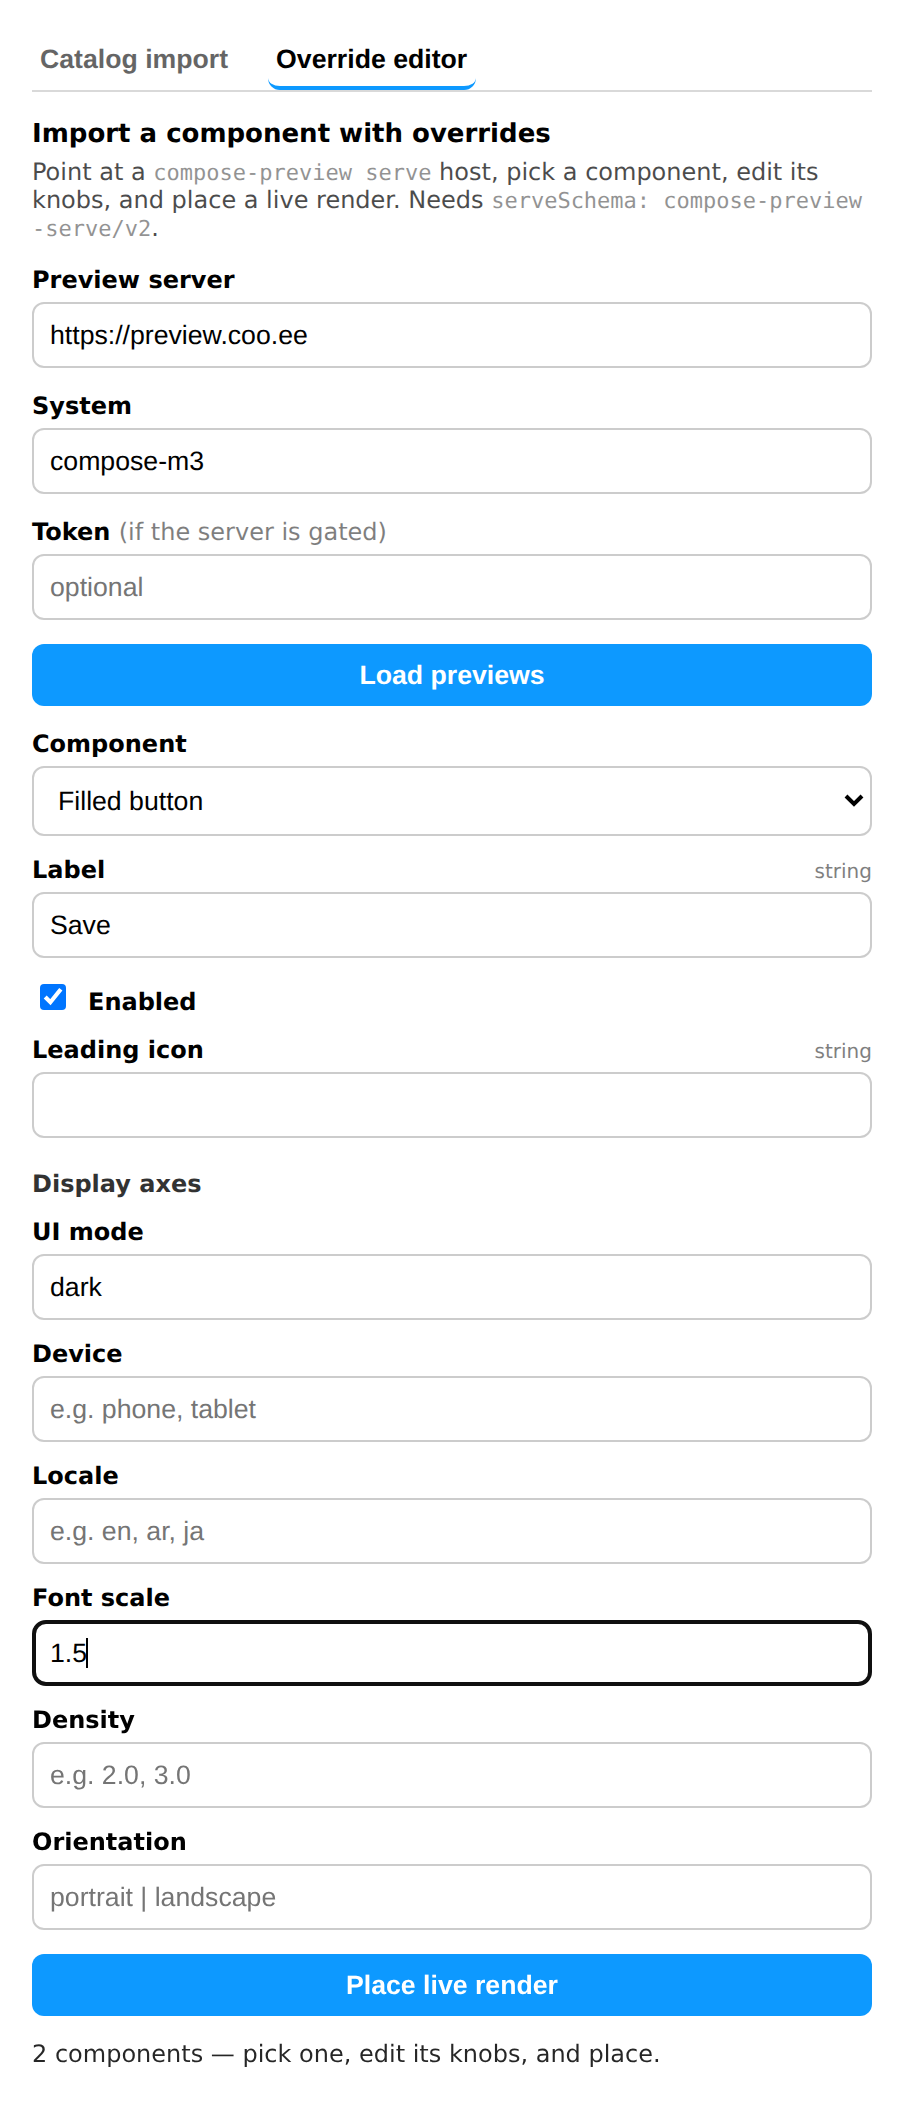
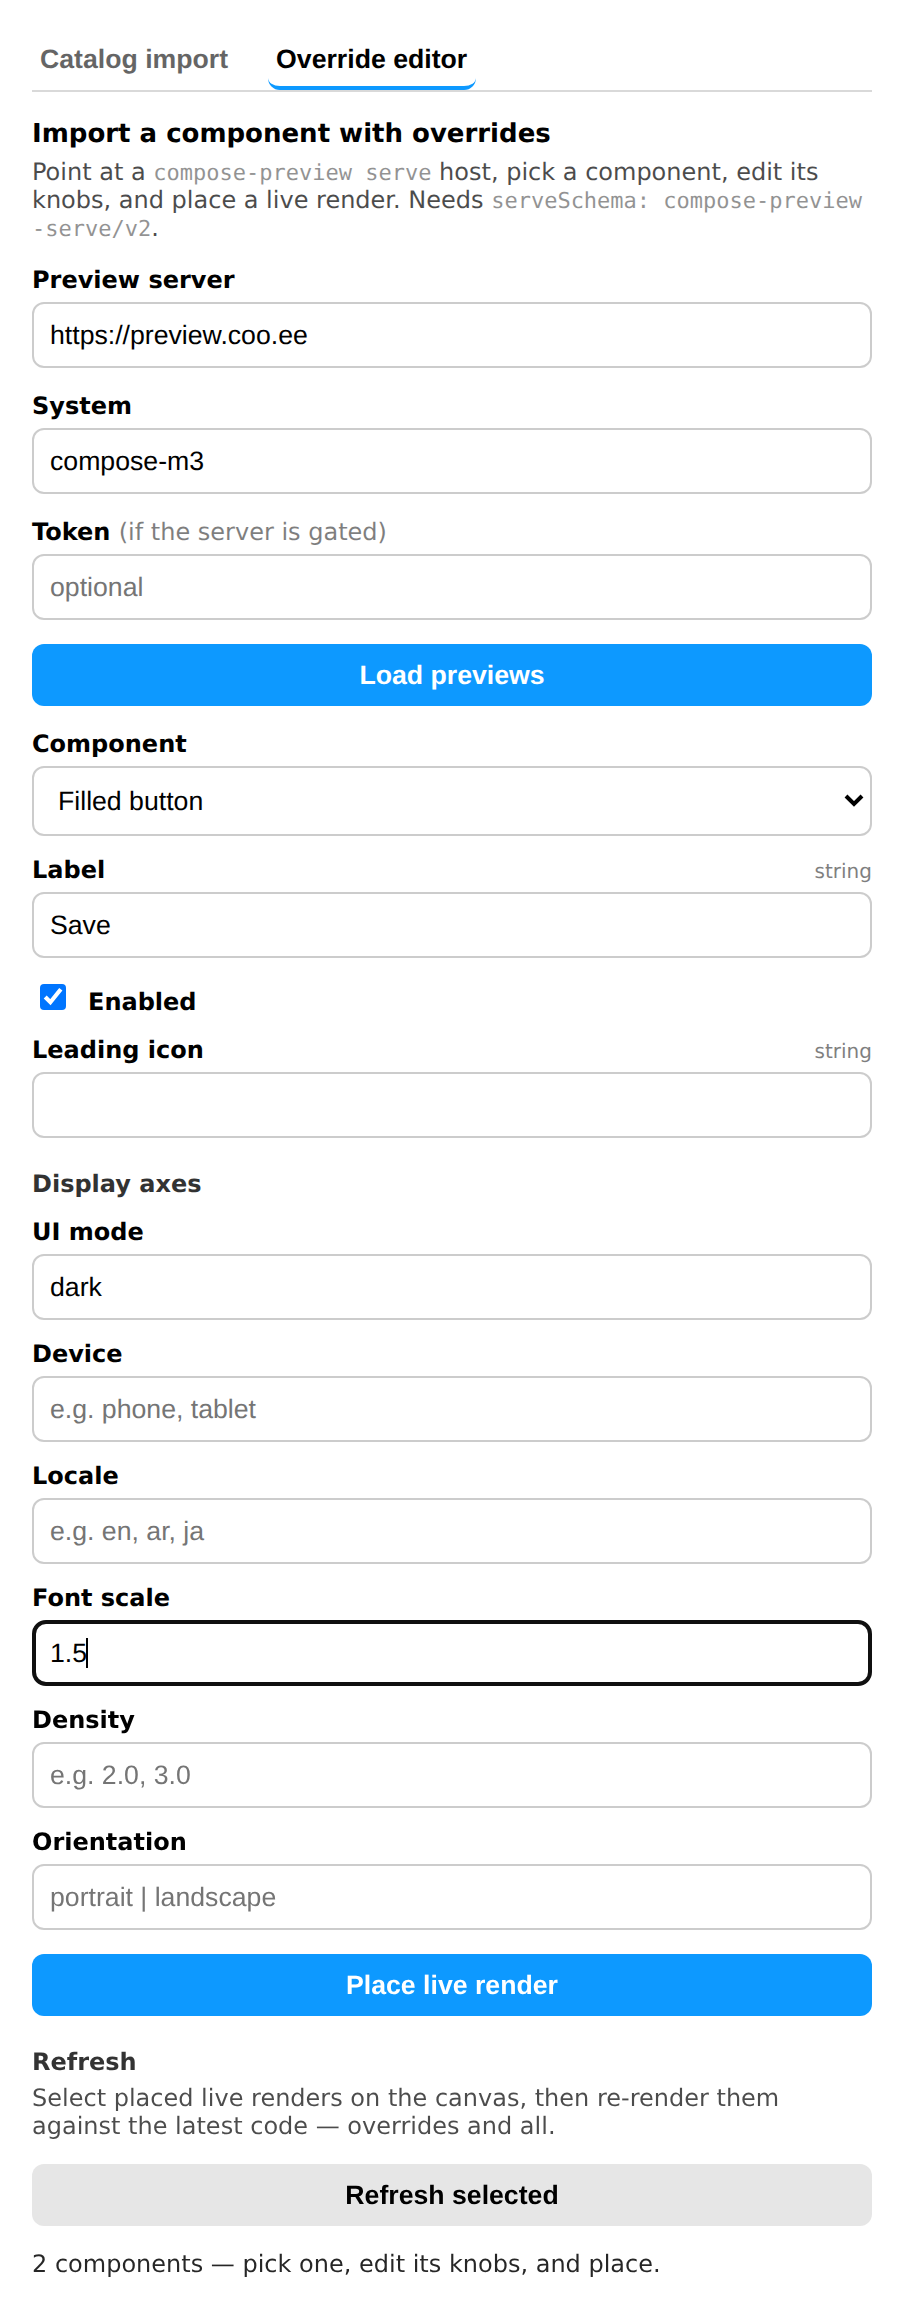
feat(figma-plugin): Refresh — re-render placed live nodes against latest code
Completes the connected half of the override editor: a placed live
render carries its RenderSource as provenance, so it can be re-fetched
against updated code (or a moved server) without re-entering overrides.

- planRefresh(nodes): pure — for each selected node with provenance, the
  URL to re-fetch (via refreshUrl); nodes with none are skipped, so a
  mixed selection only touches live renders.
- code.ts round-trip: the main thread plans jobs from the page selection
  (only it can read provenance), hands the URLs to the UI (the only realm
  that can fetch), and re-fills each node via refreshLiveRender as the
  bytes come back — targets held by node id across the hop.
- A "Refresh selected" control in the editor tab drives it.

FigmaApi gains the page's `selection`. planRefresh is asserted headlessly
against the fake; the committed UI evidence (docs/ui-override-editor.png)
is regenerated.

Changed region(s): [[0.031, 0.0, 0.9912, 0.9886], [0.8982, 0.4943, 0.9602, 0.5252]]

diff --git a/packages/figma-plugin/figma/code.ts b/packages/figma-plugin/figma/code.ts
@@ -7,9 +7,9 @@
  * `test/fakeFigma.ts`). The one `as unknown as FigmaApi` cast bridges Figma's
  * exhaustive `PluginAPI` to the structural subset the builder needs.
  */
-import { applyImport, type FetchedImage, type FigmaApi } from "../src/scene.js";
+import { applyImport, type FetchedImage, type FigmaApi, type FigmaNode } from "../src/scene.js";
 import type { ParityDirection } from "../src/direction.js";
-import { placeLiveRender } from "../src/live.js";
+import { placeLiveRender, planRefresh, refreshLiveRender } from "../src/live.js";
 import type { ImportPlan } from "../src/plan.js";
 import type { RenderSource } from "../src/render.js";
 
@@ -34,7 +34,30 @@ interface PlaceLiveMessage {
   name?: string;
 }
 
-type UiMessage = ImportMessage | PlaceLiveMessage | { type: "cancel" };
+/** The UI asks to refresh every live render in the current selection. */
+interface RefreshMessage {
+  type: "refresh";
+}
+
+/** The UI posts back the freshly fetched bytes for one refresh job. */
+interface ApplyRefreshMessage {
+  type: "applyRefresh";
+  nodeId: string;
+  bytes: Uint8Array;
+}
+
+type UiMessage =
+  | ImportMessage
+  | PlaceLiveMessage
+  | RefreshMessage
+  | ApplyRefreshMessage
+  | { type: "cancel" };
+
+// Refresh is a round-trip: the main thread plans the jobs (only it can read a
+// node's provenance) and hands the URLs to the UI (the only realm that can
+// `fetch`); the UI fetches and posts the bytes back per node. Hold the target
+// nodes by id across that hop so an `applyRefresh` re-fills the right one.
+const refreshTargets = new Map<string, FigmaNode>();
 
 figma.showUI(__html__, { width: 420, height: 360, themeColors: true });
 
@@ -54,6 +77,32 @@ figma.ui.onmessage = async (msg: UiMessage): Promise<void> => {
       const message = err instanceof Error ? err.message : String(err);
       figma.ui.postMessage({ type: "liveError", message });
       figma.notify(`Place failed: ${message}`, { error: true });
+    }
+    return;
+  }
+  if (msg.type === "refresh") {
+    const selection = figma.currentPage.selection as unknown as FigmaNode[];
+    const jobs = planRefresh(selection);
+    refreshTargets.clear();
+    for (const job of jobs) refreshTargets.set(job.node.id, job.node);
+    figma.ui.postMessage({
+      type: "refreshJobs",
+      jobs: jobs.map((j) => ({ nodeId: j.node.id, url: j.url })),
+    });
+    if (jobs.length === 0) figma.notify("Select a live render to refresh.");
+    return;
+  }
+  if (msg.type === "applyRefresh") {
+    const node = refreshTargets.get(msg.nodeId);
+    if (!node) return;
+    try {
+      refreshLiveRender(figma as unknown as FigmaApi, node, msg.bytes);
+      figma.ui.postMessage({ type: "refreshed", nodeId: msg.nodeId, name: node.name });
+    } catch (err) {
+      const message = err instanceof Error ? err.message : String(err);
+      figma.ui.postMessage({ type: "liveError", message });
+    } finally {
+      refreshTargets.delete(msg.nodeId);
     }
     return;
   }

diff --git a/packages/figma-plugin/figma/ui.ts b/packages/figma-plugin/figma/ui.ts
@@ -158,6 +158,11 @@ window.onmessage = (event: MessageEvent) => {
     editorSay(`Placed “${msg.name}”. Edit the knobs and place again for another variant.`);
   }
   if (msg.type === "liveError") editorSay(`Place failed: ${msg.message}`);
+  if (msg.type === "refreshJobs") void runRefreshJobs(msg.jobs);
+  if (msg.type === "refreshed") {
+    refreshDone += 1;
+    editorSay(`Refreshed ${refreshDone}/${refreshExpected}.`);
+  }
 };
 
 function dedupeImages(images: PlannedImage[]): PlannedImage[] {
@@ -198,7 +203,12 @@ const previewSelect = document.getElementById("preview") as HTMLSelectElement;
 const knobsDiv = document.getElementById("knobs") as HTMLElement;
 const axesDiv = document.getElementById("axes") as HTMLElement;
 const placeButton = document.getElementById("place") as HTMLButtonElement;
+const refreshButton = document.getElementById("refresh") as HTMLButtonElement;
 const editorStatus = document.getElementById("editor-status") as HTMLParagraphElement;
+
+/** Progress counters for an in-flight Refresh (main thread reports each node done). */
+let refreshExpected = 0;
+let refreshDone = 0;
 
 /** The loaded system: its previews plus the coordinates a render request needs. */
 let loaded: { previews: Preview[]; serverBase: string; system: string; token: string } | undefined;
@@ -330,6 +340,30 @@ function collectAxes(): Record<string, string> {
     axes[input.dataset.key!] = input.value.trim();
   }
   return axes;
+}
+
+refreshButton.addEventListener("click", () => {
+  editorSay("Refreshing selection…");
+  parent.postMessage({ pluginMessage: { type: "refresh" } }, "*");
+});
+
+/** Fetch each planned job's bytes and hand them back to the main thread to re-fill. */
+async function runRefreshJobs(jobs: { nodeId: string; url: string }[]): Promise<void> {
+  if (jobs.length === 0) {
+    editorSay("Select a placed live render on the canvas, then Refresh.");
+    return;
+  }
+  refreshExpected = jobs.length;
+  refreshDone = 0;
+  editorSay(`Refreshing ${jobs.length} render${jobs.length === 1 ? "" : "s"}…`);
+  for (const job of jobs) {
+    try {
+      const bytes = await fetchBytes(job.url);
+      parent.postMessage({ pluginMessage: { type: "applyRefresh", nodeId: job.nodeId, bytes } }, "*");
+    } catch (err) {
+      editorSay(err instanceof Error ? err.message : String(err));
+    }
+  }
 }
 
 placeButton.addEventListener("click", async () => {

diff --git a/packages/figma-plugin/src/live.ts b/packages/figma-plugin/src/live.ts
@@ -14,7 +14,7 @@
  * Pure given the injected {@link FigmaApi} + already-fetched bytes (no `fetch`,
  * no `figma` global): asserted headlessly against the fake node.
  */
-import { readRenderSource, stampRenderSource } from "./provenance.js";
+import { readRenderSource, refreshUrl, stampRenderSource } from "./provenance.js";
 import type { RenderSource } from "./render.js";
 import { STAMP, type FigmaApi, type FigmaNode } from "./scene.js";
 
@@ -66,6 +66,27 @@ export function placeLiveRender(
   figma.currentPage.appendChild(node);
   figma.viewport.scrollAndZoomIntoView([node]);
   return node;
+}
+
+/** One node to re-fetch on Refresh: the node and the URL its provenance rebuilds. */
+export interface RefreshJob {
+  node: FigmaNode;
+  url: string;
+}
+
+/**
+ * Plan a Refresh over a selection: for each node that carries render provenance,
+ * the URL to re-fetch (rebuilt from its stamp, so it re-renders against current
+ * code). Nodes with no provenance — a designer's own content, or a static
+ * import — are skipped, so refreshing a mixed selection only touches live nodes.
+ */
+export function planRefresh(nodes: readonly FigmaNode[]): RefreshJob[] {
+  const jobs: RefreshJob[] = [];
+  for (const node of nodes) {
+    const url = refreshUrl(node);
+    if (url) jobs.push({ node, url });
+  }
+  return jobs;
 }
 
 /**

diff --git a/packages/figma-plugin/test/live.test.ts b/packages/figma-plugin/test/live.test.ts
@@ -3,6 +3,7 @@ import { describe, expect, it } from "vitest";
 import {
   isLiveRender,
   placeLiveRender,
+  planRefresh,
   refreshLiveRender,
   LIVE_ROLE,
 } from "../src/live.js";
@@ -75,6 +76,25 @@ describe("refreshLiveRender", () => {
     const plain = fake.figma.createFrame();
     expect(isLiveRender(plain)).toBe(false);
     expect(refreshLiveRender(fake.figma, plain, new Uint8Array([1]))).toBeUndefined();
+  });
+});
+
+describe("planRefresh", () => {
+  it("yields a re-fetch job only for nodes carrying render provenance", () => {
+    const fake = paged();
+    const live = placeLiveRender(fake.figma, source, new Uint8Array([1]));
+    const plain = fake.figma.createFrame(); // a designer's own node — no provenance
+
+    const jobs = planRefresh([live, plain]);
+    expect(jobs).toHaveLength(1);
+    expect(jobs[0]!.node).toBe(live);
+    // The job URL is exactly what the node's stamp rebuilds.
+    expect(jobs[0]!.url).toBe(buildRenderUrl(source));
+  });
+
+  it("is empty for a selection with no live renders", () => {
+    const fake = paged();
+    expect(planRefresh([fake.figma.createFrame()])).toEqual([]);
   });
 });
 

diff --git a/packages/figma-plugin/src/scene.ts b/packages/figma-plugin/src/scene.ts
@@ -93,6 +93,8 @@ export interface FigmaNode {
   characters?: string;
   /** Present on container nodes (pages, frames); used to walk for reconcile. */
   children?: readonly FigmaNode[];
+  /** Present on a page node: the user's current on-canvas selection (real Figma API). */
+  selection?: readonly FigmaNode[];
   appendChild(child: FigmaNode): void;
   resize(width: number, height: number): void;
   /** Stamp durable, invisible identity data under a namespace (real Figma API). */

diff --git a/packages/figma-plugin/src/index.ts b/packages/figma-plugin/src/index.ts
@@ -40,10 +40,11 @@ export {
 export {
   placeLiveRender,
   refreshLiveRender,
+  planRefresh,
   isLiveRender,
   LIVE_ROLE,
 } from "./live.js";
-export type { PlaceLiveOptions, LiveRenderSize } from "./live.js";
+export type { PlaceLiveOptions, LiveRenderSize, RefreshJob } from "./live.js";
 export { knobControls, EDITOR_AXES } from "./editor.js";
 export type { KnobControl, AxisControl } from "./editor.js";
 export {

diff --git a/packages/figma-plugin/figma/ui.html b/packages/figma-plugin/figma/ui.html
@@ -122,5 +122,11 @@
     </div>
   </div>
 
+  <p class="group-title">Refresh</p>
+  <p class="hint" style="margin-top:4px">Select placed live renders on the canvas, then re-render them against the latest code — overrides and all.</p>
+  <div class="row">
+    <button id="refresh" type="button" class="secondary">Refresh selected</button>
+  </div>
+
   <p id="editor-status"></p>
 </section>
